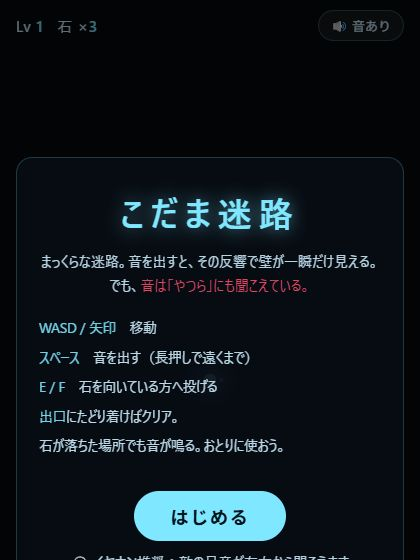
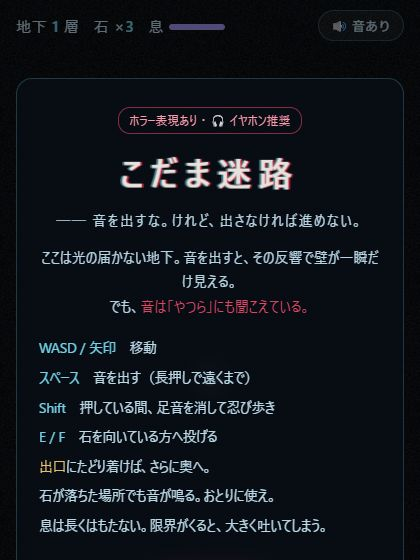
自動公開 / 更新: こだま迷路

diff --git a/apps/kodama-meiro/index.html b/apps/kodama-meiro/index.html
@@ -39,18 +39,38 @@
   .card li{padding:3px 0}
   .card li span{color:var(--accent)}
   .card .go{margin-top:16px;font-size:18px;padding:12px 36px;border-radius:30px;border:none;cursor:pointer;
-    background:var(--accent);color:#03141c;font-weight:700;letter-spacing:.1em}
+    background:#a3122f;color:#f3e9e4;font-weight:700;letter-spacing:.1em;box-shadow:0 0 18px rgba(255,40,70,.35)}
   .hint{font-size:12px;opacity:.6;margin-top:10px}
-  .danger{color:var(--danger)} .gold{color:var(--gold)}
+  .danger{color:var(--danger)} .gold,.card li span.gold{color:var(--gold)}
+  #breathBtn{width:64px;height:64px;right:30px;bottom:calc(140px + env(safe-area-inset-bottom));font-size:16px;
+    border-color:rgba(180,160,255,.35);background:rgba(180,160,255,.06)}
+  #breathBtn.on{background:rgba(180,160,255,.28)}
+  #hBr{display:inline-block;width:56px;height:6px;border-radius:3px;background:rgba(255,255,255,.12);overflow:hidden;vertical-align:middle}
+  #hBr i{display:block;height:100%;width:100%;background:#b4a0ff;transition:background .2s}
+  #hBr.low i{background:var(--danger)}
+  /* ホラー演出 */
+  .card h1.glitch{color:#e8e2dc;text-shadow:2px 0 rgba(255,40,70,.7),-2px 0 rgba(127,231,255,.5);
+    animation:glitch 3.2s infinite steps(1)}
+  @keyframes glitch{
+    0%,100%{transform:none;opacity:1} 41%{transform:translate(2px,-1px) skewX(-6deg);opacity:.85}
+    42%{transform:translate(-3px,1px);opacity:.4} 43%{transform:none;opacity:1}
+    77%{opacity:.2} 78%{opacity:1} 79%{transform:translate(1px,0) skewX(8deg)} 80%{transform:none}
+  }
+  .tagline{font-size:13px;opacity:.75;letter-spacing:.1em;margin-bottom:12px}
+  .warn{display:inline-block;font-size:12px;border:1px solid rgba(255,77,109,.5);color:#ff9aac;border-radius:12px;
+    padding:2px 10px;margin-bottom:10px}
+  h2.shake{animation:shake .12s infinite}
+  @keyframes shake{0%{transform:translate(1px,0)}50%{transform:translate(-1px,1px)}100%{transform:translate(0,-1px)}}
 </style>
 </head>
 <body>
 <canvas id="c"></canvas>
 <div id="hud">
-  <div class="l"><span>Lv <b id="hLv">1</b></span><span>石 ×<b id="hSt">3</b></span><span id="hBest" style="opacity:.6"></span></div>
+  <div class="l"><span>地下 <b id="hLv">1</b> 層</span><span>石 ×<b id="hSt">3</b></span><span>息 <span id="hBr"><i></i></span></span><span id="hBest" style="opacity:.6"></span></div>
   <button id="muteBtn">🔊 音あり</button>
 </div>
 <div id="stoneBtn" class="btn">石<small>なげる</small></div>
+<div id="breathBtn" class="btn">息<small>ひそめる</small></div>
 <div id="pingBtn" class="btn">音<small>長押しで大</small></div>
 <div id="overlay"><div class="card" id="card"></div></div>
 
@@ -93,6 +113,20 @@ function initAudio(){
     echoIn.connect(d); d.connect(lp); lp.connect(fb); fb.connect(d); lp.connect(master);
   }catch(e){ AC = null; }
 }
+// 低くうなり続ける環境音
+let drone = null;
+function startDrone(){
+  if (!AC || drone) return;
+  const g = AC.createGain(), lp = AC.createBiquadFilter(), lfo = AC.createOscillator(), lg = AC.createGain();
+  g.gain.value = 0; lp.type = 'lowpass'; lp.frequency.value = 180;
+  lfo.frequency.value = 0.08; lg.gain.value = 70; lfo.connect(lg); lg.connect(lp.frequency); lfo.start();
+  for (const [f, type] of [[43, 'sawtooth'], [43.6, 'sawtooth'], [64.5, 'triangle']]){
+    const o = AC.createOscillator(); o.type = type; o.frequency.value = f; o.connect(lp); o.start();
+  }
+  lp.connect(g); g.connect(master);
+  g.gain.linearRampToValueAtTime(0.09, AC.currentTime + 3);
+  drone = g;
+}
 function out(pan, echo){
   let node = master;
   if (AC.createStereoPanner && pan){
@@ -119,6 +153,7 @@ function noise(dur, vol, filt='lowpass', freq=600, pan=0){
     noiseBuf = AC.createBuffer(1, AC.sampleRate * 0.5, AC.sampleRate);
     const d = noiseBuf.getChannelData(0); for (let i = 0; i < d.length; i++) d[i] = Math.random() * 2 - 1;
   }
+  if (dur <= 0) return;
   const t = AC.currentTime, s = AC.createBufferSource(), f = AC.createBiquadFilter(), g = AC.createGain();
   s.buffer = noiseBuf; f.type = filt; f.frequency.value = freq;
   g.gain.setValueAtTime(vol, t); g.gain.exponentialRampToValueAtTime(0.0001, t + dur);
@@ -131,12 +166,26 @@ const SFX = {
   enemyStep(pan, vol){ tone(95, 48, 0.14, vol, 'triangle', pan); },
   growl(pan, vol){ tone(130, 60, 0.6, vol, 'sawtooth', pan); tone(97, 50, 0.6, vol*0.7, 'square', pan); },
   pickup(){ tone(880, 880, 0.12, 0.12, 'sine'); tone(1320, 1320, 0.18, 0.12, 'sine', 0, false, 0.09); },
-  clear(){ [523, 659, 784, 1046].forEach((f, i) => tone(f, f, 0.3, 0.13, 'sine', 0, true, i * 0.11)); },
+  clear(){ [392, 466, 554, 523].forEach((f, i) => tone(f, f * 0.98, 0.5, 0.1, 'triangle', 0, true, i * 0.16)); },
   dead(){ tone(320, 40, 1.1, 0.25, 'sawtooth'); noise(0.6, 0.3, 'lowpass', 300); },
   throw(){ noise(0.12, 0.06, 'bandpass', 900); },
   sting(pan){
     tone(220, 207, 0.9, 0.07, 'sawtooth', pan, true); tone(233, 247, 0.9, 0.07, 'sawtooth', pan, true);
     tone(1900, 1500, 0.7, 0.03, 'triangle', pan, true); noise(0.4, 0.05, 'bandpass', 3000, pan);
+  },
+  heart(vol){ tone(62, 40, 0.16, vol, 'sine'); tone(55, 38, 0.18, vol * 0.75, 'sine', 0, false, 0.17); },
+  drip(pan){ tone(1700 + Math.random() * 600, 700, 0.09, 0.05, 'sine', pan, true); },
+  gasp(){ noise(0.5, 0.22, 'bandpass', 1100); tone(380, 260, 0.35, 0.04, 'sawtooth'); },
+  whisper(pan){ // 帯域を揺らしたノイズで「ささやき」
+    if (!AC) return;
+    noise(0, 0); // バッファを用意
+    const t = AC.currentTime, s = AC.createBufferSource(), f = AC.createBiquadFilter(), g = AC.createGain();
+    s.buffer = noiseBuf; s.loop = true; f.type = 'bandpass'; f.Q.value = 9;
+    f.frequency.setValueAtTime(900, t);
+    for (let i = 1; i <= 8; i++) f.frequency.linearRampToValueAtTime(700 + Math.random() * 1400, t + i * 0.18);
+    g.gain.setValueAtTime(0.0001, t); g.gain.linearRampToValueAtTime(0.09, t + 0.3);
+    g.gain.linearRampToValueAtTime(0.05, t + 1.0); g.gain.linearRampToValueAtTime(0.0001, t + 1.5);
+    s.connect(f); f.connect(g); g.connect(out(pan, true)); s.start(t); s.stop(t + 1.6);
   }
 };
 const muteBtn = document.getElementById('muteBtn');
@@ -234,6 +283,7 @@ function los(ax, ay, bx, by){
 let state = 'title', level = 1, stones = 3, best = +(store('kodama_best') || 0);
 let player, enemies, items, exitObj, pings, projectiles, memory, memKeys, now = 0, deathInfo = null;
 let charging = false, chargeStart = 0, pingCooldown = 0, stepTimer = 0, dangerPulse = 0;
+let breath = 1, holdBreath = false, breathLocked = false, lastBeat = -99, nextBeat = 0, dripT = 3, whisperT = 15, deathAt = -99;
 
 function setupLevel(){
   const size = Math.min(16, 6 + level);
@@ -271,13 +321,14 @@ function setupLevel(){
   }
   pings = []; projectiles = []; memory = []; memKeys = new Set();
   charging = false; pingCooldown = 0; deathInfo = null;
+  breath = 1; breathLocked = false; holdBreath = false;
   updateHud();
 }
 
 function updateHud(){
   document.getElementById('hLv').textContent = level;
   document.getElementById('hSt').textContent = stones;
-  document.getElementById('hBest').textContent = best ? 'ベスト Lv' + best : '';
+  document.getElementById('hBest').textContent = best ? '最深 ' + best + ' 層' : '';
 }
 
 // ===== 音を出す =====
@@ -365,8 +416,13 @@ addEventListener('keydown', e => {
   keys.add(e.code);
   if (e.code === 'Space' && !e.repeat) startCharge();
   if ((e.code === 'KeyE' || e.code === 'KeyF') && !e.repeat) throwStone();
+  if (e.code === 'ShiftLeft' || e.code === 'ShiftRight') holdBreath = true;
 });
-addEventListener('keyup', e => { keys.delete(e.code); if (e.code === 'Space') releaseCharge(); });
+addEventListener('keyup', e => {
+  keys.delete(e.code);
+  if (e.code === 'Space') releaseCharge();
+  if (e.code === 'ShiftLeft' || e.code === 'ShiftRight') holdBreath = false;
+});
 function startCharge(){ if (state === 'play' && !charging){ charging = true; chargeStart = now; } }
 function releaseCharge(){ if (charging){ charging = false; if (state === 'play') doPing(); } }
 
@@ -383,6 +439,9 @@ const pingBtn = document.getElementById('pingBtn');
 pingBtn.addEventListener('pointerdown', e => { e.preventDefault(); initAudio(); pingBtn.classList.add('on'); startCharge(); });
 ['pointerup','pointercancel','pointerleave'].forEach(t => pingBtn.addEventListener(t, () => { pingBtn.classList.remove('on'); releaseCharge(); }));
 document.getElementById('stoneBtn').addEventListener('pointerdown', e => { e.preventDefault(); initAudio(); throwStone(); });
+const breathBtn = document.getElementById('breathBtn');
+breathBtn.addEventListener('pointerdown', e => { e.preventDefault(); initAudio(); holdBreath = true; breathBtn.classList.add('on'); });
+['pointerup','pointercancel','pointerleave'].forEach(t => breathBtn.addEventListener(t, () => { holdBreath = false; breathBtn.classList.remove('on'); }));
 
 function inputVec(){
   let x = 0, y = 0;
@@ -404,11 +463,12 @@ function blocked(x, y){
   return isWall(Math.floor(x - r), Math.floor(y - r)) || isWall(Math.floor(x + r), Math.floor(y - r)) ||
          isWall(Math.floor(x - r), Math.floor(y + r)) || isWall(Math.floor(x + r), Math.floor(y + r));
 }
-function movePlayer(dt){
+function movePlayer(dt, sneaking){
   const [ix, iy] = inputVec(), mag = Math.hypot(ix, iy);
   if (mag < 0.1) return false;
   player.fx = ix; player.fy = iy;
-  const vx = ix * PLAYER_SPEED * dt, vy = iy * PLAYER_SPEED * dt, p = player;
+  const sp = sneaking ? 1.5 : PLAYER_SPEED;
+  const vx = ix * sp * dt, vy = iy * sp * dt, p = player;
   const assist = (axis, amt) => { // 角でひっかからないよう中央へ寄せる
     const c = Math.floor(p[axis]) + 0.5, d = c - p[axis];
     p[axis] += Math.sign(d) * Math.min(Math.abs(d), amt);
@@ -426,8 +486,28 @@ function revealCheck(p, r, obj, x, y){
 
 function update(dt){
   pingCooldown = Math.max(0, pingCooldown - dt);
-  const moving = movePlayer(dt);
-  if (moving){
+  // 息をひそめる：足音が消えるが、長くは続かない
+  const sneaking = holdBreath && !breathLocked;
+  if (sneaking){
+    breath -= dt / 4;
+    if (breath <= 0){ // 限界で大きく息を吐いてしまう
+      breath = 0; breathLocked = true; SFX.gasp();
+      makePing(player.x, player.y, 2.5, 5.5, { bright: 0.6 });
+    }
+  } else {
+    breath = Math.min(1, breath + dt / 3);
+    if (breathLocked && breath > 0.4) breathLocked = false;
+  }
+  const brEl = document.getElementById('hBr');
+  brEl.firstChild.style.width = (breath * 100) + '%';
+  brEl.classList.toggle('low', breathLocked || breath < 0.25);
+  // 環境音
+  dripT -= dt; whisperT -= dt;
+  if (dripT <= 0){ dripT = 2.5 + Math.random() * 6; SFX.drip(Math.random() * 2 - 1); }
+  if (whisperT <= 0){ whisperT = 18 + Math.random() * 25; SFX.whisper(Math.random() < 0.5 ? -0.9 : 0.9); }
+
+  const moving = movePlayer(dt, sneaking);
+  if (moving && !sneaking){
     stepTimer += dt;
     if (stepTimer > 0.42){ // 足音で足元だけうっすら見える
       stepTimer = 0; SFX.step();
@@ -481,12 +561,23 @@ function update(dt){
     nearest = Math.min(nearest, d);
     if (d < 0.6){ die(e); return; }
   }
-  dangerPulse = Math.max(0, 1 - nearest / 3.5);
+  // 心臓の鼓動：近いほど速く強く
+  dangerPulse = Math.max(0, 1 - nearest / 8);
+  if (dangerPulse > 0 && now >= nextBeat){
+    nextBeat = now + 0.3 + 0.75 * (nearest / 8);
+    lastBeat = now; SFX.heart(0.08 + 0.3 * dangerPulse);
+  }
   if (Math.hypot(exitObj.x - player.x, exitObj.y - player.y) < 0.5) clearLevel();
 }
 
 // ===== 描画 =====
 function seg(s){ ctx.moveTo(s[0] * TS, s[1] * TS); ctx.lineTo(s[2] * TS, s[3] * TS); }
+const grainPat = (() => {
+  const c = document.createElement('canvas'); c.width = c.height = 128;
+  const g = c.getContext('2d'), img = g.createImageData(128, 128);
+  for (let i = 0; i < img.data.length; i += 4){ const v = Math.random() * 255; img.data[i] = img.data[i + 1] = img.data[i + 2] = v; img.data[i + 3] = 255; }
+  g.putImageData(img, 0, 0); return ctx.createPattern(c, 'repeat');
+})();
 function draw(){
   ctx.setTransform(DPR, 0, 0, DPR, 0, 0);
   ctx.fillStyle = '#030407'; ctx.fillRect(0, 0, W, H);
@@ -573,12 +664,25 @@ function draw(){
   }
 
   ctx.setTransform(DPR, 0, 0, DPR, 0, 0);
-  // 敵が近いと画面のふちが赤く脈打つ
+  // 息をひそめている間は視界のふちが暗くなる
+  if (state === 'play' && holdBreath && !breathLocked){
+    const vg = ctx.createRadialGradient(W / 2, H / 2, Math.min(W, H) * 0.15, W / 2, H / 2, Math.max(W, H) * 0.6);
+    vg.addColorStop(0, 'rgba(0,0,0,0)'); vg.addColorStop(1, 'rgba(0,0,0,.75)');
+    ctx.fillStyle = vg; ctx.fillRect(0, 0, W, H);
+  }
+  // 鼓動にあわせて画面のふちが赤く脈打つ
   if (state === 'play' && dangerPulse > 0){
-    const a = dangerPulse * (0.25 + 0.2 * Math.sin(now * 9));
+    const a = dangerPulse * 0.55 * Math.exp(-(now - lastBeat) * 5) + dangerPulse * 0.08;
     const vg = ctx.createRadialGradient(W / 2, H / 2, Math.min(W, H) * 0.3, W / 2, H / 2, Math.max(W, H) * 0.7);
     vg.addColorStop(0, 'rgba(255,40,70,0)'); vg.addColorStop(1, `rgba(255,40,70,${a})`);
     ctx.fillStyle = vg; ctx.fillRect(0, 0, W, H);
+  }
+  // フィルムのようなざらつき（やられた直後は赤い砂嵐）
+  if (grainPat){
+    const dt = now - deathAt, dying = state === 'dead' && dt < 1.4;
+    if (dying){ ctx.fillStyle = `rgba(120,0,15,${0.55 * (1 - dt / 1.4)})`; ctx.fillRect(0, 0, W, H); }
+    ctx.save(); ctx.globalAlpha = dying ? 0.45 * (1 - dt / 1.4) + 0.08 : 0.07;
+    ctx.translate(-rnd(128), -rnd(128)); ctx.fillStyle = grainPat; ctx.fillRect(0, 0, W + 128, H + 128); ctx.restore();
   }
   // バーチャルスティック
   if (joy){
@@ -658,30 +762,35 @@ function showCard(html, action){
   card.querySelector('.go').addEventListener('click', overlayAction);
 }
 const controls = isTouch
-  ? '<li><span>左側をドラッグ</span>　移動</li><li><span>「音」ボタン</span>　音を出す（長押しで遠くまで）</li><li><span>「石」ボタン</span>　向いている方へ投げる</li>'
-  : '<li><span>WASD / 矢印</span>　移動</li><li><span>スペース</span>　音を出す（長押しで遠くまで）</li><li><span>E / F</span>　石を向いている方へ投げる</li>';
+  ? '<li><span>左側をドラッグ</span>　移動</li><li><span>「音」ボタン</span>　音を出す（長押しで遠くまで）</li><li><span>「息」ボタン</span>　押している間、足音を消して忍び歩き</li><li><span>「石」ボタン</span>　向いている方へ投げる</li>'
+  : '<li><span>WASD / 矢印</span>　移動</li><li><span>スペース</span>　音を出す（長押しで遠くまで）</li><li><span>Shift</span>　押している間、足音を消して忍び歩き</li><li><span>E / F</span>　石を向いている方へ投げる</li>';
 function title(){
   state = 'title'; level = 1; stones = 3; setupLevel();
-  showCard(`<h1>こだま迷路</h1><p>まっくらな迷路。音を出すと、その反響で壁が一瞬だけ見える。<br>
+  showCard(`<span class="warn">ホラー表現あり ・ 🎧 イヤホン推奨</span>
+    <h1 class="glitch">こだま迷路</h1><p class="tagline">── 音を出すな。けれど、出さなければ進めない。</p>
+    <p>ここは光の届かない地下。音を出すと、その反響で壁が一瞬だけ見える。<br>
     でも、<span class="danger">音は「やつら」にも聞こえている。</span></p>
-    <ul>${controls}<li><span class="gold">出口</span>にたどり着けばクリア。</li>
-    <li>石が落ちた場所でも音が鳴る。おとりに使おう。</li></ul>
-    <button class="go">はじめる</button><p class="hint">🎧 イヤホン推奨：敵の足音が左右から聞こえます</p>`, start);
+    <ul>${controls}<li><span class="gold">出口</span>にたどり着けば、さらに奥へ。</li>
+    <li>石が落ちた場所でも音が鳴る。おとりに使え。</li>
+    <li>息は長くはもたない。限界がくると、大きく吐いてしまう。</li></ul>
+    <button class="go">はいる</button><p class="hint">足音・心音・ささやきは左右から聞こえます</p>`, start);
 }
-function start(){ state = 'play'; }
+function start(){ startDrone(); state = 'play'; }
+const deathLines = ['つかまった…', 'みつかった', 'うしろに、いた', 'もう、にげられない'];
 function die(e){
-  state = 'dead'; SFX.dead(); charging = false; joy = null;
+  state = 'dead'; deathAt = now; SFX.dead(); charging = false; joy = null; holdBreath = false;
   if (level - 1 > best){ best = level - 1; store('kodama_best', best); }
   updateHud();
-  setTimeout(() => showCard(`<h2 class="danger">つかまった…</h2><p>Lv ${level} でやられた。<br>到達記録：Lv ${level - 1} クリア${best ? `（ベスト Lv${best}）` : ''}</p>
-    <button class="go">もう一度</button>`, () => { level = 1; stones = 3; setupLevel(); state = 'play'; }), 900);
+  const line = deathLines[rnd(deathLines.length)];
+  setTimeout(() => showCard(`<h2 class="danger shake">${line}</h2><p>地下 ${level} 層で、音が途絶えた。<br>到達記録：${level - 1} 層${best ? `（最深 ${best} 層）` : ''}</p>
+    <button class="go">もう一度はいる</button>`, () => { level = 1; stones = 3; setupLevel(); start(); }), 1400);
 }
 function clearLevel(){
-  state = 'clear'; SFX.clear(); charging = false; joy = null;
+  state = 'clear'; SFX.clear(); charging = false; joy = null; holdBreath = false;
   if (level > best){ best = level; store('kodama_best', best); }
   updateHud();
-  setTimeout(() => showCard(`<h2 class="gold">Lv ${level} クリア！</h2><p>次はもっと広く、やつらも増える。<br>石 +1</p>
-    <button class="go">次へ</button>`, () => { level++; stones++; setupLevel(); state = 'play'; }), 700);
+  setTimeout(() => showCard(`<h2 class="gold">地下 ${level} 層を抜けた</h2><p>……でも、出口はまだ下へ続いている。<br>奥ほど広く、やつらの数も増える。　石 +1</p>
+    <button class="go">さらに下へ</button>`, () => { level++; stones++; setupLevel(); start(); }), 900);
 }
 
 // ===== ループ =====
